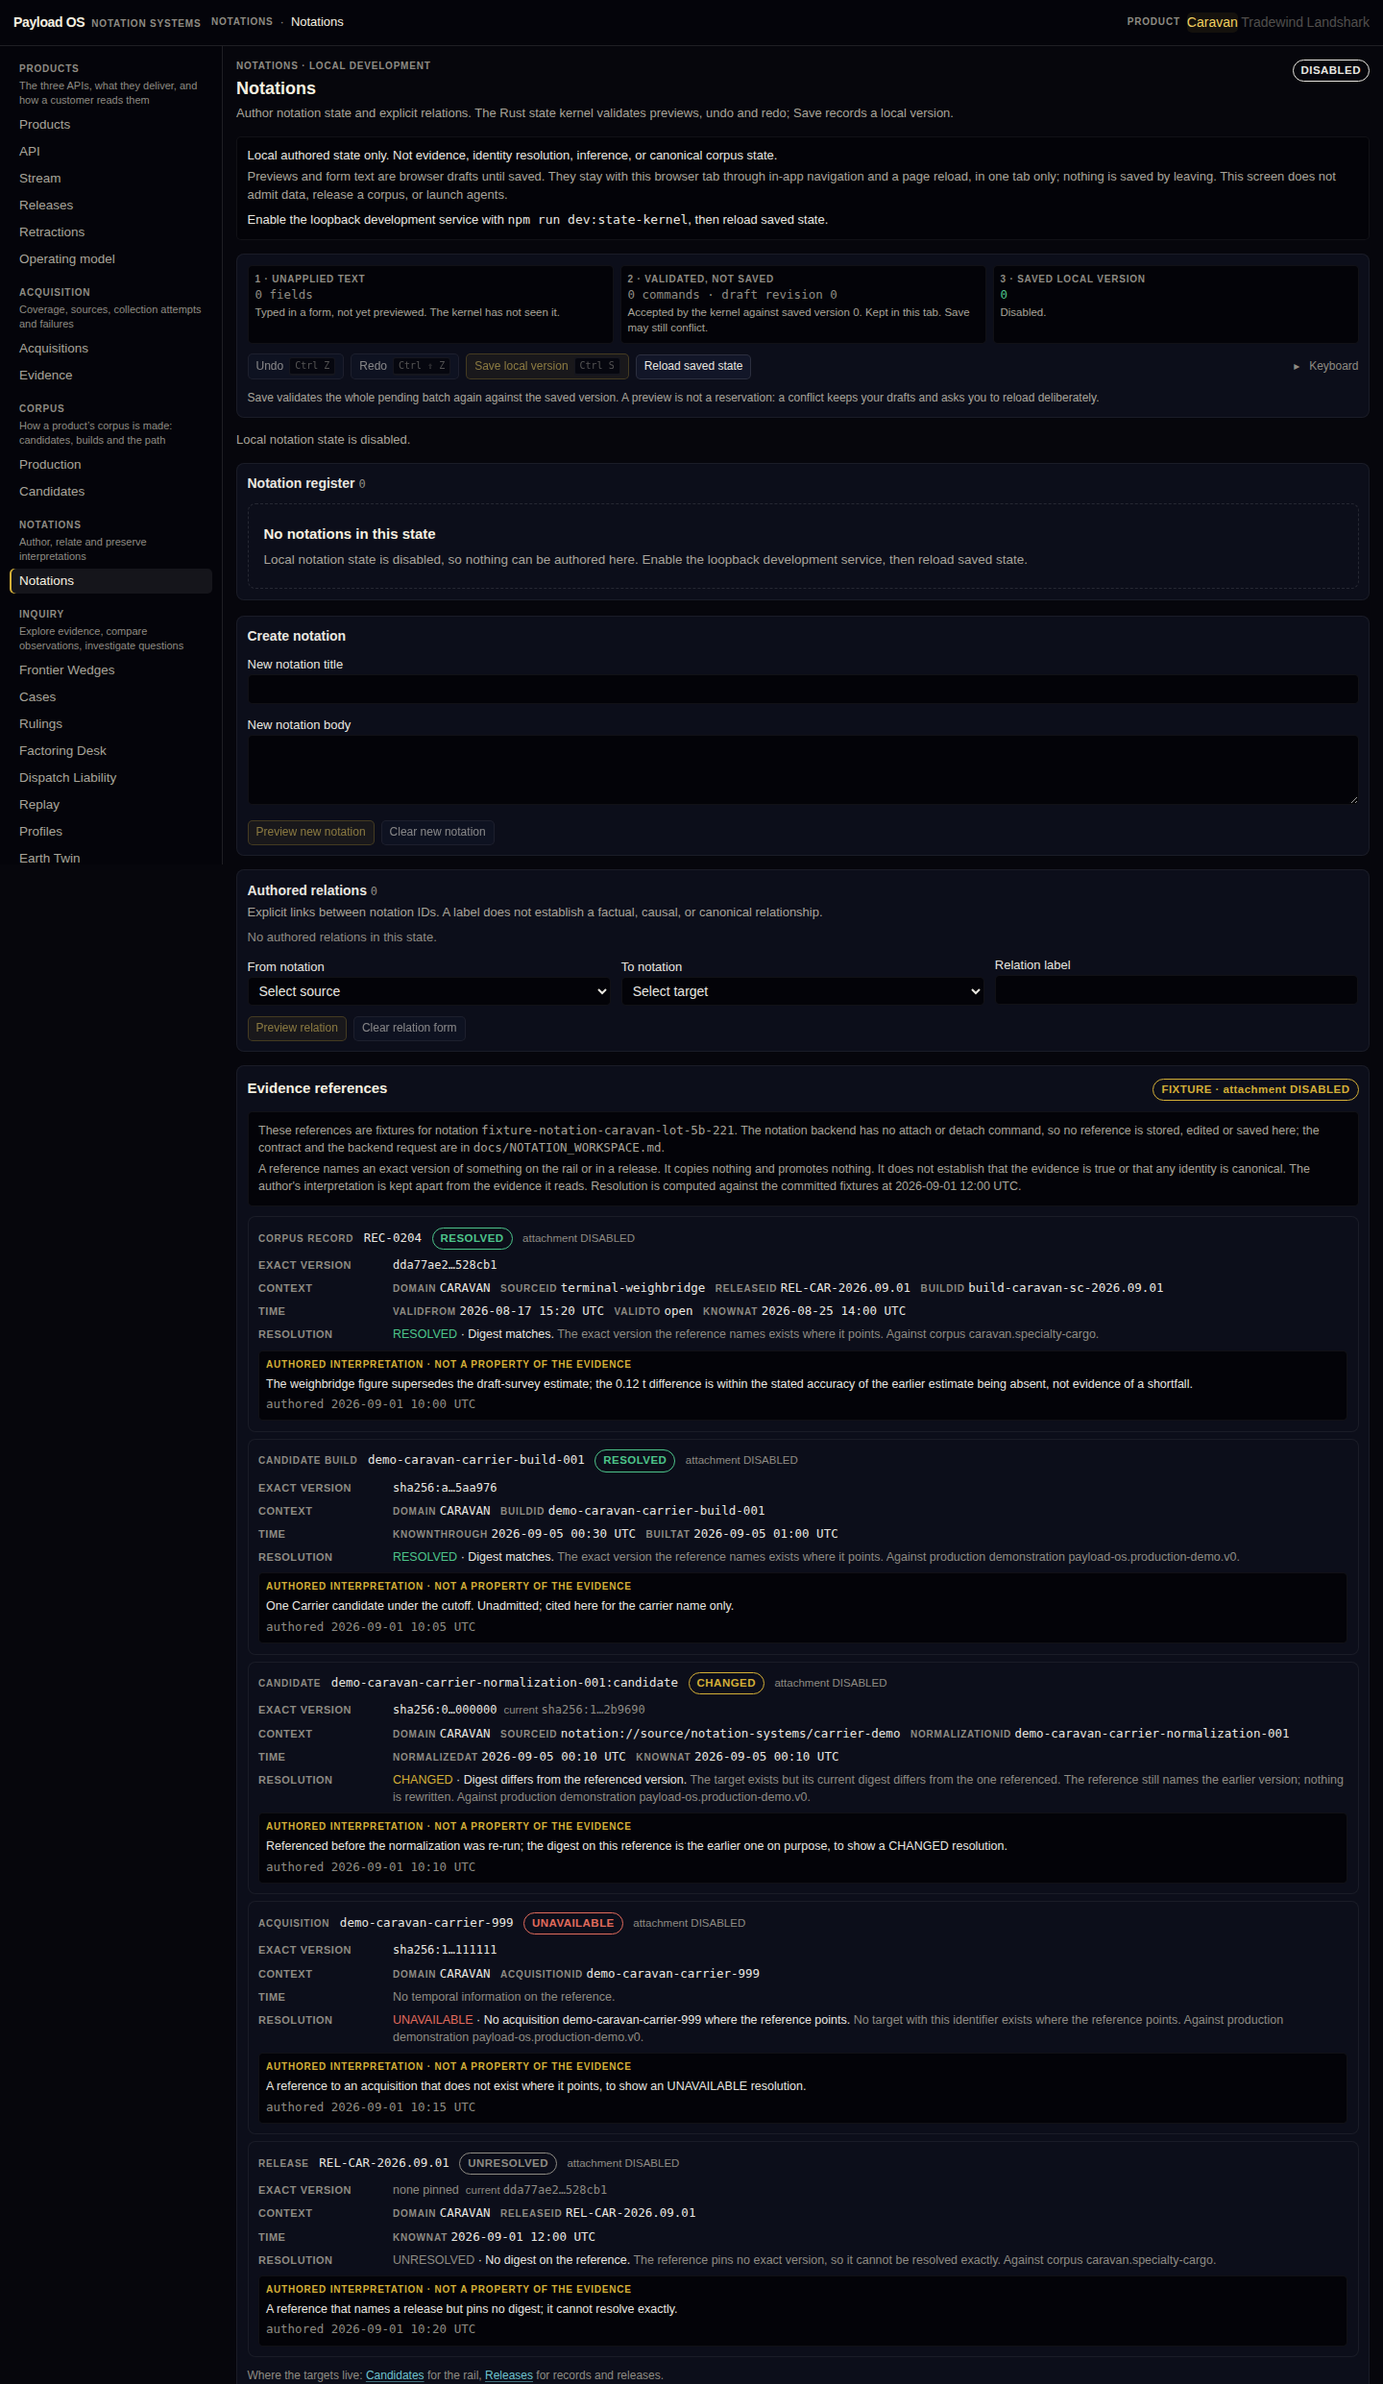
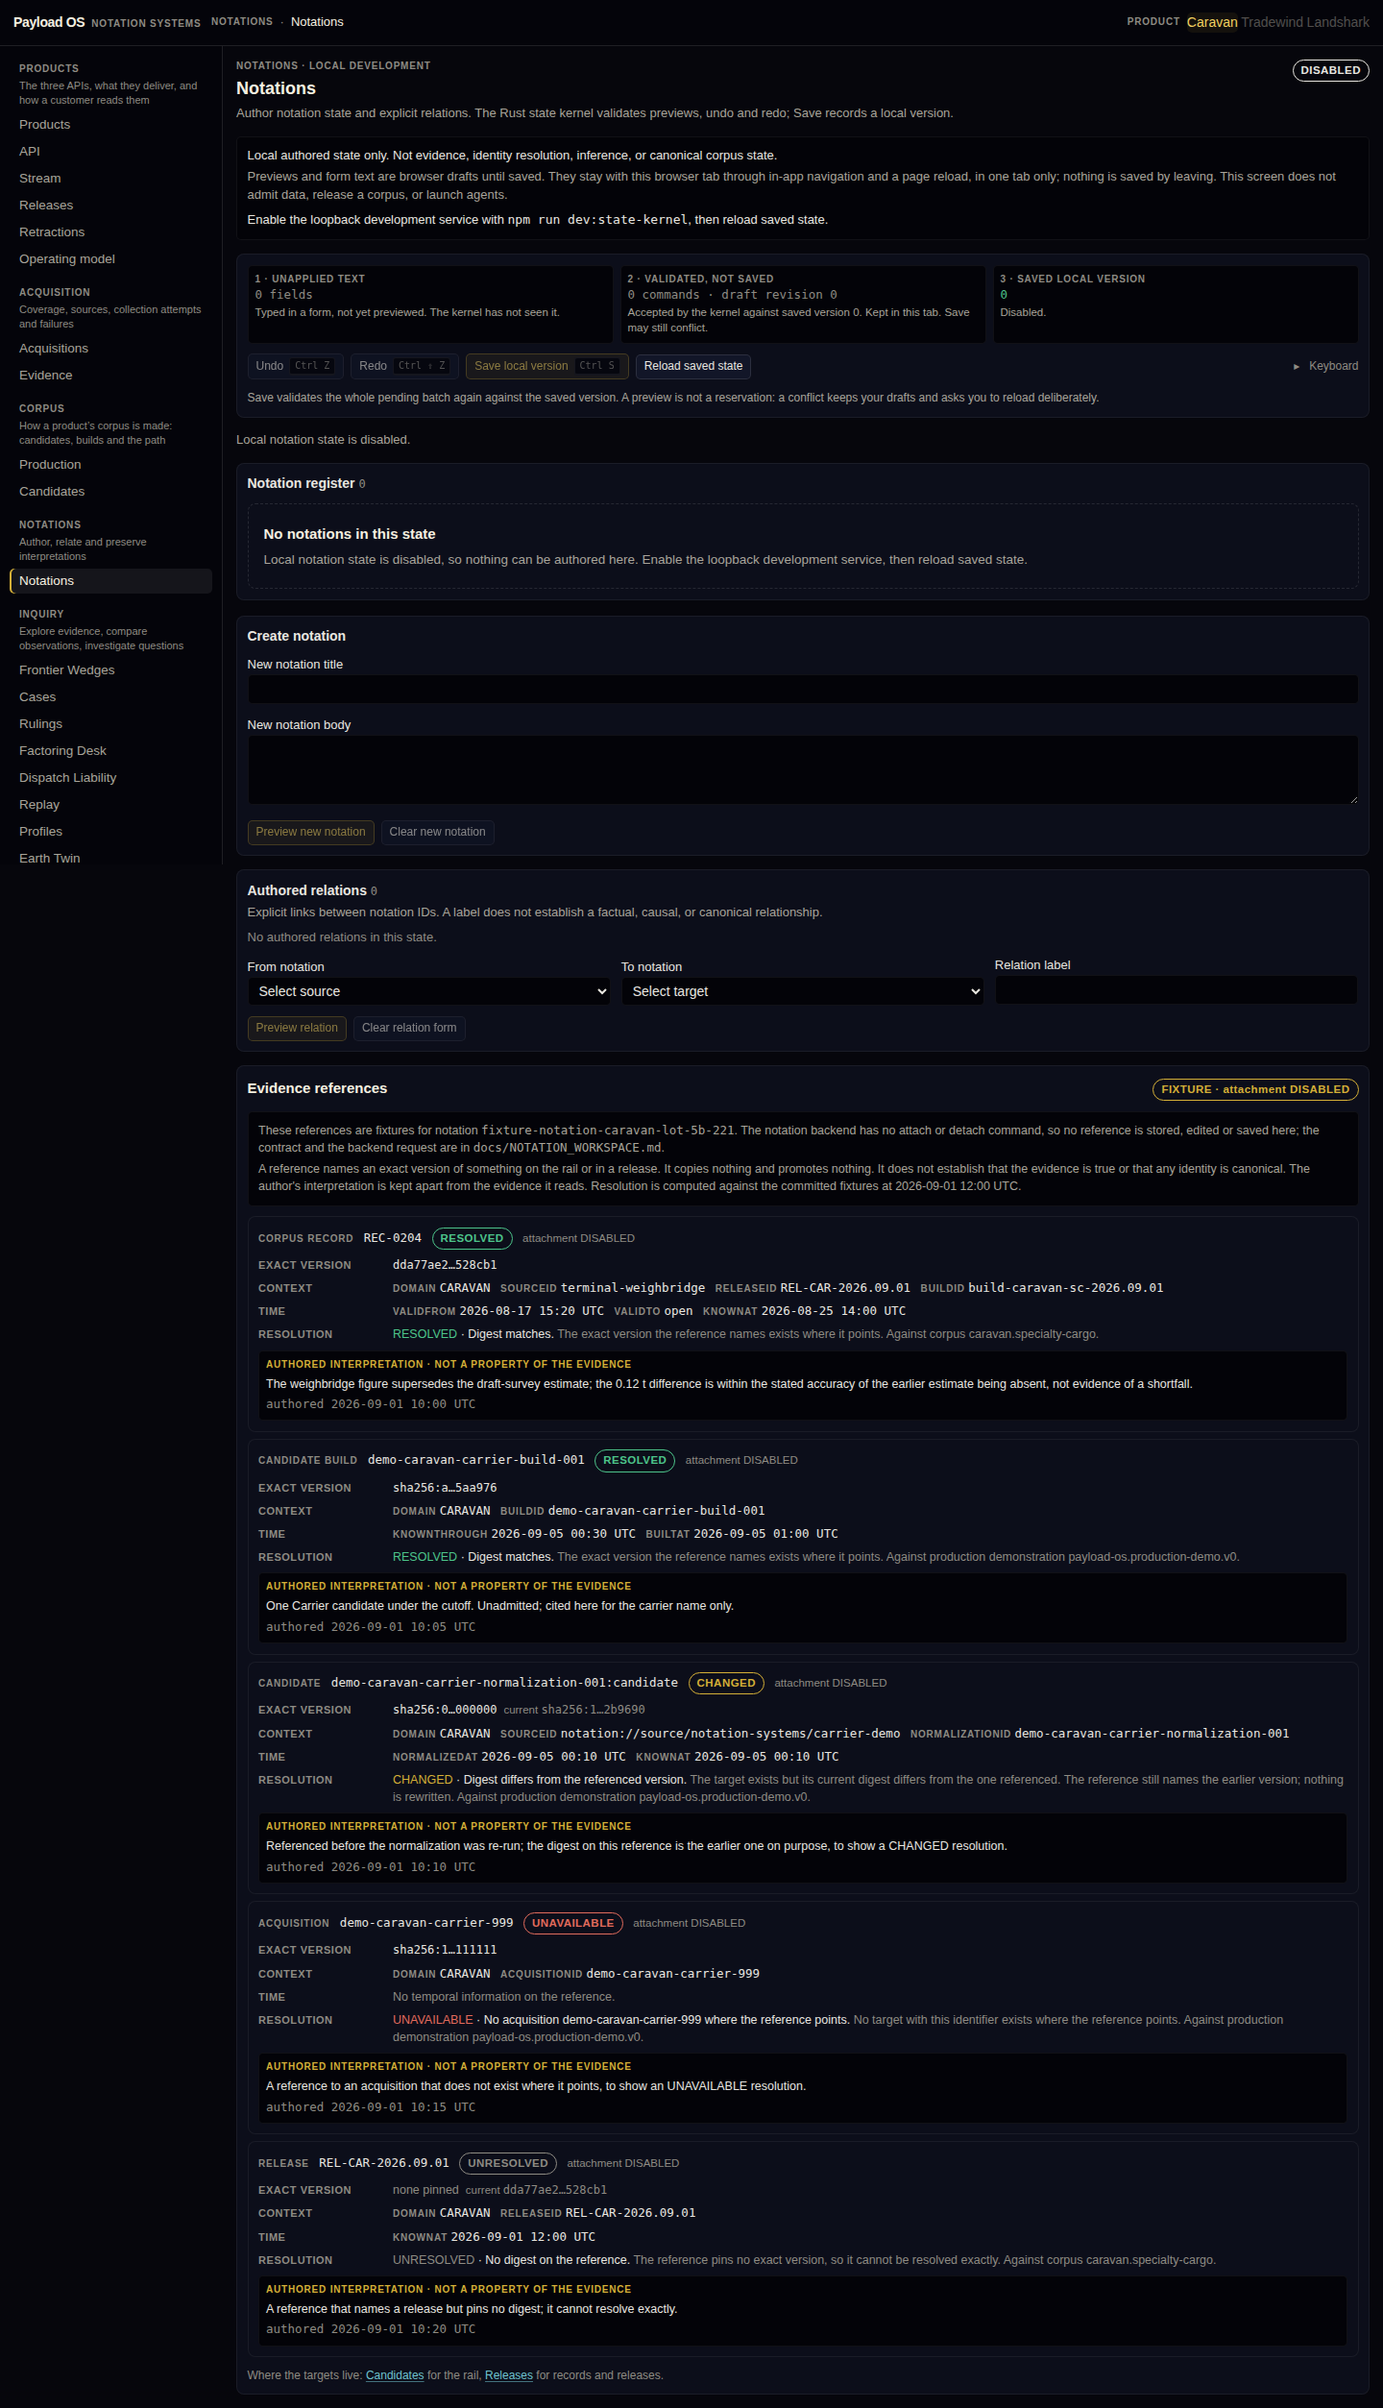
The admitted record had no claim in it: four defects on one insert
Circling back over the structures found a discontinuity at the spine. The
admission gate ruled on a candidate, produced a row, and the row carried
identity, three clocks, provenance and rights — and nothing the record asserts
about the world. The write path then had to make up the difference, and it did.

WHAT THE INSERT WAS DOING

predicate: (candidate as { predicate?: string }).predicate ?? 'observation'.
A cast through a shape the type does not have, falling back to a literal. The
gate was manufacturing part of the assertion it exists to rule on, and the cast
was there to stop the compiler saying so.

data was { admittedBy, ruledAt }. The payload column of an admitted record held
the ruling's metadata and no value, no unit, no basis. A row written by this path
asserts nothing. Anything reading records.data expecting a claim got a receipt.

subjectId was written from subjectCanonicalId. Two different identifiers — what
the source called the subject, and what the corpus resolves it to — collapsed
into one column, so any join on either would miss.

And conditions, which AdmittedRow carries with the comment "so downstream cannot
lose them", were not written at all. There was no column. A conditional admission
reached storage as an unconditional one, which is the wrong word rather than a
missing field.

THE ROOT CAUSE, AND THE TENTH CHECK

Nine checks, none about what the record claims. AdmissionCandidate carried
[…]

Changed region(s): [[0.1562, 0.3413, 0.9688, 1.0], [0.1875, 0.031, 0.7812, 0.3102], [0.0, 0.031, 0.125, 0.3723]]

diff --git a/src/domain/admission.ts b/src/domain/admission.ts
@@ -38,6 +38,7 @@ export type AdmissionCheck =
   | 'ORIGIN_ADMISSIBLE'
   | 'BOTH_CLOCKS'
   | 'SUBJECT_IDENTIFIED'
+  | 'ASSERTION_PRESENT'
   | 'RIGHTS_DECIDED'
   | 'AUTHORITY_IS_NOT_THE_PROCESS'
   | 'PROVENANCE_DECLARED'
@@ -50,6 +51,7 @@ export const CHECK_MEANING: Record<AdmissionCheck, string> = {
   ORIGIN_ADMISSIBLE: 'The claim’s epistemic origin is one that can be evidence at all. A declared assumption and a simulation are conditions a computation ran under, not observations of the world.',
   BOTH_CLOCKS: 'A world time and a knowledge time, and the knowledge time is not earlier than the capture it descends from. A record knowable before its evidence was captured is not a record.',
   SUBJECT_IDENTIFIED: 'The subject carries a canonical identity, so the record joins on identity rather than on a name.',
+  ASSERTION_PRESENT: 'The candidate states a subject, a predicate and a value, so there is a claim to admit. Provenance without a claim is a receipt for an empty envelope, and a gate that let one through would have to invent the claim downstream.',
   RIGHTS_DECIDED: 'A rights decision exists for the operation this admission performs. An undecided right is a refusal, never a default permission.',
   AUTHORITY_IS_NOT_THE_PROCESS: 'The ruling names an authority, and the authority is not this method. Promotion is an act; a process admitting on its own behalf is a write wearing a ruling’s clothes.',
   PROVENANCE_DECLARED: 'The candidate declares how it arrived — live capture or backfill — rather than leaving it to be worked out later. Provenance inferred from a clock gap is a guess about testimony, one waterline below testimony itself.',
@@ -60,12 +62,37 @@ export const CHECK_MEANING: Record<AdmissionCheck, string> = {
 /** Origins that may never become evidence, from the engine boundary mapping. */
 export const INADMISSIBLE_ORIGINS = ['ASSUMED', 'SIMULATED'] as const;
 
+/**
+ * What the candidate actually claims.
+ *
+ * Kept separate from the identity and the clocks because it is a different kind
+ * of thing: the rest of a candidate says where this came from and when, and
+ * this says what it asserts about the world. The gate needs both — a candidate
+ * with impeccable provenance and no claim is not a record, it is a receipt for
+ * an empty envelope.
+ *
+ * Its own subject id sits here rather than being derived from the canonical
+ * identity. They are different identifiers: the canonical one is what the
+ * corpus resolves across sources, the local one is what the source called it,
+ * and writing one into the other's column silently breaks every join.
+ */
+export interface CandidateAssertion {
+  /** What the source called the subject. Not the canonical identity. */
+  subjectId: string | null;
+  predicate: string | null;
+  value: string | number | null;
+  unit?: string;
+  basis?: string;
+}
+
 export interface AdmissionCandidate {
   candidateId: string;
   buildId: string | null;
   /** The proposed record's identity, which survives admission unchanged. */
   recordId: string;
   subjectCanonicalId: string | null;
+  /** What this candidate claims. A candidate that claims nothing is refused. */
+  assertion: CandidateAssertion | null;
   /** Epistemic origin as the producer declared it. */
   origin: string | null;
   evidenceClass: { claimStrength: string | null; productionClass: string | null; interest: string | null } | null;
@@ -166,6 +193,14 @@ function evaluate(candidate: AdmissionCandidate, authority: string): Array<{ che
 
   if (!readable(candidate.subjectCanonicalId)) fail('SUBJECT_IDENTIFIED', 'The subject carries no canonical identity, so this record would join on a name.');
 
+  // A candidate with no claim is not a record. Without this the write path has
+  // to invent a predicate to satisfy its own schema, which is the gate
+  // manufacturing the assertion it exists to rule on.
+  const assertion = candidate.assertion;
+  if (!assertion || !readable(assertion.subjectId) || !readable(assertion.predicate) || assertion.value === null || assertion.value === undefined || assertion.value === '') {
+    fail('ASSERTION_PRESENT', 'The candidate states no subject, predicate or value, so there is nothing to admit. Impeccable provenance over an empty claim is a receipt for an empty envelope.');
+  }
+
   if (candidate.rightsDecision !== 'PERMITTED') {
     fail('RIGHTS_DECIDED', `The rights decision is ${candidate.rightsDecision ?? 'absent'}. Only PERMITTED admits; undecided is a refusal and never a default permission.`);
   }
@@ -187,8 +222,8 @@ function evaluate(candidate: AdmissionCandidate, authority: string): Array<{ che
 
 const ALL_CHECKS: readonly AdmissionCheck[] = [
   'EVIDENCE_ARTIFACT_BOUND', 'EVIDENCE_CLASS_COMPLETE', 'ORIGIN_ADMISSIBLE',
-  'BOTH_CLOCKS', 'SUBJECT_IDENTIFIED', 'RIGHTS_DECIDED', 'AUTHORITY_IS_NOT_THE_PROCESS',
-  'PROVENANCE_DECLARED', 'SOURCE_CLOCK_COHERENT',
+  'BOTH_CLOCKS', 'SUBJECT_IDENTIFIED', 'ASSERTION_PRESENT', 'RIGHTS_DECIDED',
+  'AUTHORITY_IS_NOT_THE_PROCESS', 'PROVENANCE_DECLARED', 'SOURCE_CLOCK_COHERENT',
 ];
 
 /** Rule on one candidate. Refusal is the default and every failure is named. */
@@ -304,6 +339,13 @@ export function crossedTheGate(provenance: RecordProvenance): boolean {
 export interface AdmittedRow {
   recordId: string;
   subjectCanonicalId: string;
+  /** What the source called the subject, kept distinct from the canonical identity. */
+  subjectId: string;
+  predicate: string;
+  /** The claim itself, which the row exists to carry rather than to describe. */
+  value: string | number;
+  unit: string | null;
+  basis: string | null;
   validFrom: string;
   validTo: string | null;
   knownAt: string;
@@ -339,6 +381,11 @@ export function admittedRow(
     row: {
       recordId: candidate.recordId,
       subjectCanonicalId: candidate.subjectCanonicalId!,
+      subjectId: candidate.assertion!.subjectId!,
+      predicate: candidate.assertion!.predicate!,
+      value: candidate.assertion!.value!,
+      unit: candidate.assertion!.unit ?? null,
+      basis: candidate.assertion!.basis ?? null,
       validFrom: candidate.validFrom!,
       validTo: null,
       knownAt: candidate.knownAt!,

diff --git a/src/domain/admission.test.ts b/src/domain/admission.test.ts
@@ -10,6 +10,7 @@ function candidate(over: Partial<AdmissionCandidate> = {}): AdmissionCandidate {
     buildId: 'build-9',
     recordId: 'REC-1',
     subjectCanonicalId: 'notation://subject/facility-1',
+    assertion: { subjectId: 'FACILITY-1', predicate: 'condition.moisture', value: 12.4, unit: '%', basis: 'As received' },
     origin: 'MEASURED',
     evidenceClass: { claimStrength: 'reported', productionClass: 'measured', interest: 'unknown' },
     provenance: { artifactDigest: 'a'.repeat(64), capturedAt: '2026-09-07T06:00:00Z' },
@@ -28,7 +29,7 @@ describe('the admission authority: the gate the store says it is owed', () => {
     const ruling = admit(candidate(), AUTHORITY, RULED_AT);
     expect(ruling.outcome).toBe('ADMITTED');
     expect(ruling.failed).toEqual([]);
-    expect(ruling.passed).toHaveLength(9);
+    expect(ruling.passed).toHaveLength(10);
     expect(ruling.authority).toBe(AUTHORITY);
     expect(ruling.because).toMatch(/does not say the claim is true/);
     expect(ADMISSION_LOSS.join(' ')).toMatch(/no number of passed checks makes it true/);
@@ -217,5 +218,42 @@ describe('the admission authority: the gate the store says it is owed', () => {
     const both = { releaseId: 'REL-1', note: 'from cand-1 in build-9' };
     expect(releaseLeaks(both, ancestry)).toEqual(['build-9', 'cand-1']);
     expect(ADMISSION_LOSS.join(' ')).toMatch(/which releaseLeaks checks rather than the comment claiming it/);
+  });
+
+  it('refuses a candidate that states no claim, however good its provenance', () => {
+    // Impeccable clocks, a real artifact digest, permitted rights — and nothing
+    // asserted. Before this check the write path invented a predicate to satisfy
+    // its own schema, which is the gate manufacturing what it exists to rule on.
+    const empty = admit(candidate({ assertion: null }), 'role:corpus-steward', RULED_AT);
+    expect(empty.outcome).toBe('REFUSED');
+    expect(empty.failed.map((f) => f.check)).toContain('ASSERTION_PRESENT');
+    expect(empty.failed.find((f) => f.check === 'ASSERTION_PRESENT')!.because).toContain('empty envelope');
+
+    // A partial claim is no better than none: each part is required.
+    for (const partial of [
+      { subjectId: null, predicate: 'p', value: 1 },
+      { subjectId: 'S', predicate: null, value: 1 },
+      { subjectId: 'S', predicate: 'p', value: null },
+    ] as const) {
+      const ruling = admit(candidate({ assertion: { ...partial } }), 'role:corpus-steward', RULED_AT);
+      expect(ruling.failed.map((f) => f.check)).toContain('ASSERTION_PRESENT');
+    }
+  });
+
+  it('carries the claim onto the admitted row, with the two subject identifiers kept apart', () => {
+    const c = candidate();
+    const ruling = admit(c, 'role:corpus-steward', RULED_AT);
+    const { row } = admittedRow(c, ruling);
+    expect(row).not.toBeNull();
+    // The local name and the canonical identity are different values in
+    // different fields; writing one into the other's column breaks every join.
+    expect(row!.subjectId).toBe('FACILITY-1');
+    expect(row!.subjectCanonicalId).toBe('notation://subject/facility-1');
+    expect(row!.subjectId).not.toBe(row!.subjectCanonicalId);
+    // And the row carries what the record claims, not only how it arrived.
+    expect(row!.predicate).toBe('condition.moisture');
+    expect(row!.value).toBe(12.4);
+    expect(row!.unit).toBe('%');
+    expect(row!.basis).toBe('As received');
   });
 });

diff --git a/src/db/admitRecords.ts b/src/db/admitRecords.ts
@@ -72,18 +72,31 @@ export async function admitRecords(
     }
 
     for (const { candidate, row } of rows) {
+      // Every column comes off the admitted row. Nothing is defaulted and
+      // nothing is cast: a value the gate did not rule on has no business in a
+      // row the gate is supposed to have produced, and the predicate in
+      // particular used to be invented here when the candidate carried none.
       await tx.insert(records).values({
         recordId: row!.recordId,
         corpusId: input.corpusId,
-        subjectId: row!.subjectCanonicalId,
-        predicate: (candidate as { predicate?: string }).predicate ?? 'observation',
+        subjectId: row!.subjectId,
+        subjectCanonicalId: row!.subjectCanonicalId,
+        predicate: row!.predicate,
         validFrom: row!.validFrom,
         validTo: row!.validTo,
         knownAt: row!.knownAt,
         sourceTime: row!.sourceTime,
         acquisitionTime: row!.acquisitionTime,
         provenance: row!.provenance,
-        data: { admittedBy: row!.admittedBy, ruledAt: row!.ruledAt } as Record<string, unknown>,
+        conditions: row!.conditions,
+        data: {
+          value: row!.value,
+          unit: row!.unit,
+          basis: row!.basis,
+          admittedBy: row!.admittedBy,
+          ruledAt: row!.ruledAt,
+          outcome: row!.outcome,
+        } as Record<string, unknown>,
       }).onConflictDoNothing();
 
       // Outside the release, by rule 2, and only for what was admitted.

diff --git a/src/db/schema.ts b/src/db/schema.ts
@@ -36,6 +36,16 @@ export const records = pgTable('records', {
   // column is what keeps them from reading as admitted state. The gate
   // cannot emit DEMONSTRATION and the seeder cannot emit the other two.
   provenance: text('provenance').notNull(),
+  // The subject as the source named it, kept beside the canonical identity
+  // rather than in place of it. They are different identifiers and writing one
+  // into the other's column silently breaks every join that uses either.
+  subjectCanonicalId: text('subject_canonical_id'),
+  // Conditions a conditional admission attached, carried onto the row so a
+  // reader downstream cannot mistake it for an unconditional one. Empty means
+  // none were declared, which is not the same as none applying.
+  conditions: jsonb('conditions').notNull().default([]),
+  // The claim: value, unit, basis and the admission stamp. Not a summary of the
+  // ruling — the thing the record asserts about the world.
   data: jsonb('data').notNull(),
 });
 

diff --git a/src/domain/admitCli.test.ts b/src/domain/admitCli.test.ts
@@ -8,6 +8,7 @@ function candidate(over: Partial<AdmissionCandidate> = {}): AdmissionCandidate {
   return {
     candidateId: 'cand-1', buildId: 'build-9', recordId: 'REC-1',
     subjectCanonicalId: 'notation://subject/facility-1', origin: 'MEASURED',
+    assertion: { subjectId: 'FACILITY-1', predicate: 'condition.moisture', value: 12.4, unit: '%', basis: 'As received' },
     evidenceClass: { claimStrength: 'reported', productionClass: 'measured', interest: 'unknown' },
     provenance: { artifactDigest: 'a'.repeat(64), capturedAt: '2026-09-07T06:00:00Z' },
     provenanceClass: 'LIVE_CAPTURE', sourceTime: '2026-09-07T05:30:00Z', conditions: [],
